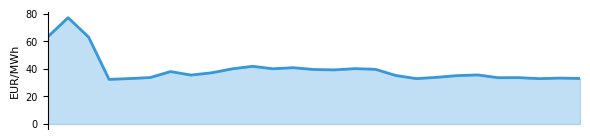
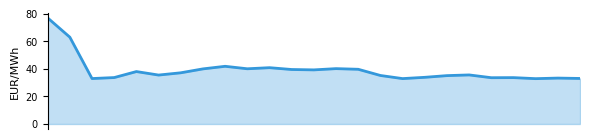
Update Gasspeicher-Report 2026-02-14 09:29

Changed region(s): [[0.061, 0.1143, 0.9153, 0.6], [0.0, 0.3429, 0.0305, 0.7143]]

diff --git a/index.html b/index.html
@@ -3,7 +3,7 @@
 <head>
 <meta charset="UTF-8">
 <meta name="viewport" content="width=device-width, initial-scale=1.0">
-<title>Energienotfall.de - Energie braucht einen Plan B | Gasspeicher 24.8% | 13.02.2026</title>
+<title>Energienotfall.de - Energie braucht einen Plan B | Gasspeicher 24.8% | 14.02.2026</title>
 <!-- SEO Meta Tags -->
 <meta name="description" content="Energienotfall.de: Energie braucht einen Plan B. Gasspeicher 24.8%, 5 Energieträger im Risikoprofil, Diversifikations-Effekt berechnet. Wer nur auf eine Quelle setzt, riskiert Versorgung und Geldbeutel.">
 <meta name="keywords" content="Energie Plan B, Versorgungssicherheit, Energieresilienz, Gasspeicher Deutschland, Energieträger Vergleich, Diversifikation, Heizung Ausfall, Gasversorgung, Risikoprofil, Pellets, Holz, Strom, Wärmepumpe">
@@ -12,17 +12,17 @@
 <link rel="canonical" href="https://www.energienotfall.de/">
 <link rel="alternate" hreflang="de" href="https://www.energienotfall.de/">
 <link rel="alternate" hreflang="x-default" href="https://www.energienotfall.de/">
-<link rel="preload" as="image" type="image/webp" href="Gasspeicher_Vorhersage_2026-02-13.webp">
+<link rel="preload" as="image" type="image/webp" href="Gasspeicher_Vorhersage_2026-02-14.webp">
 <!-- Open Graph (Facebook, LinkedIn) -->
 <meta property="og:type" content="website">
 <meta property="og:url" content="https://www.energienotfall.de/">
-<meta property="og:title" content="Energienotfall.de - Energie braucht einen Plan B | 13.02.2026">
+<meta property="og:title" content="Energienotfall.de - Energie braucht einen Plan B | 14.02.2026">
 <meta property="og:description" content="Energie braucht einen Plan B: Gasspeicher 24.8%, 5 Energieträger im Risikoprofil – Kann ich heizen, meinen Betrieb sichern, meine Produktion aufrechterhalten, wenn ein Energieträger ausfällt?">
 <meta property="og:locale" content="de_DE">
 <meta property="og:site_name" content="Energienotfall.de">
 <!-- Twitter Card -->
 <meta name="twitter:card" content="summary_large_image">
-<meta name="twitter:title" content="Energienotfall.de - Energie braucht einen Plan B | 13.02.2026">
+<meta name="twitter:title" content="Energienotfall.de - Energie braucht einen Plan B | 14.02.2026">
 <meta name="twitter:description" content="Energie braucht einen Plan B: Gasspeicher 24.8%. Risikoprofil, Diversifikations-Effekt und Plan-B-Check für Haus, Betrieb und Produktion.">
 <!-- JSON-LD Structured Data -->
 <script type="application/ld+json">
@@ -196,11 +196,11 @@ Kältewelle: +50% Verbrauch | Mild: -30% Verbrauch
 <div class="label">Gas (EUR/MWh)</div>
 </div>
 <div class="spark-item">
-<div class="value">120.4</div>
+<div class="value">118.8</div>
 <div class="label">Strom (EUR/MWh)</div>
 </div>
 <div class="spark-item">
-<div class="value spark-profitable">+61.3</div>
+<div class="value spark-profitable">+59.8</div>
 <div class="label">Spread (EUR/MWh)</div>
 </div>
 </div>
@@ -245,8 +245,8 @@ Quellen: Gas (TTF) | Strom (EPEX Spot (energy-charts.info))
 <div class="chart-container">
 <h2 style="margin-bottom: 1rem;">📈 Vorhersage-Diagramm</h2>
 <picture>
-<source srcset="Gasspeicher_Vorhersage_2026-02-13.webp" type="image/webp">
-<img src="Gasspeicher_Vorhersage_2026-02-13.png" alt="Gasspeicher Vorhersage bis 13.04.2026" loading="lazy" width="1920" height="960" />
+<source srcset="Gasspeicher_Vorhersage_2026-02-14.webp" type="image/webp">
+<img src="Gasspeicher_Vorhersage_2026-02-14.png" alt="Gasspeicher Vorhersage bis 13.04.2026" loading="lazy" width="1920" height="960" />
 </picture>
 <div style="margin-top: 0.75rem; font-size: 0.8rem; color: #666;">
 Vorhersage: 60 Tage | Tiefpunkt: 7.2% am 13.04.2026
